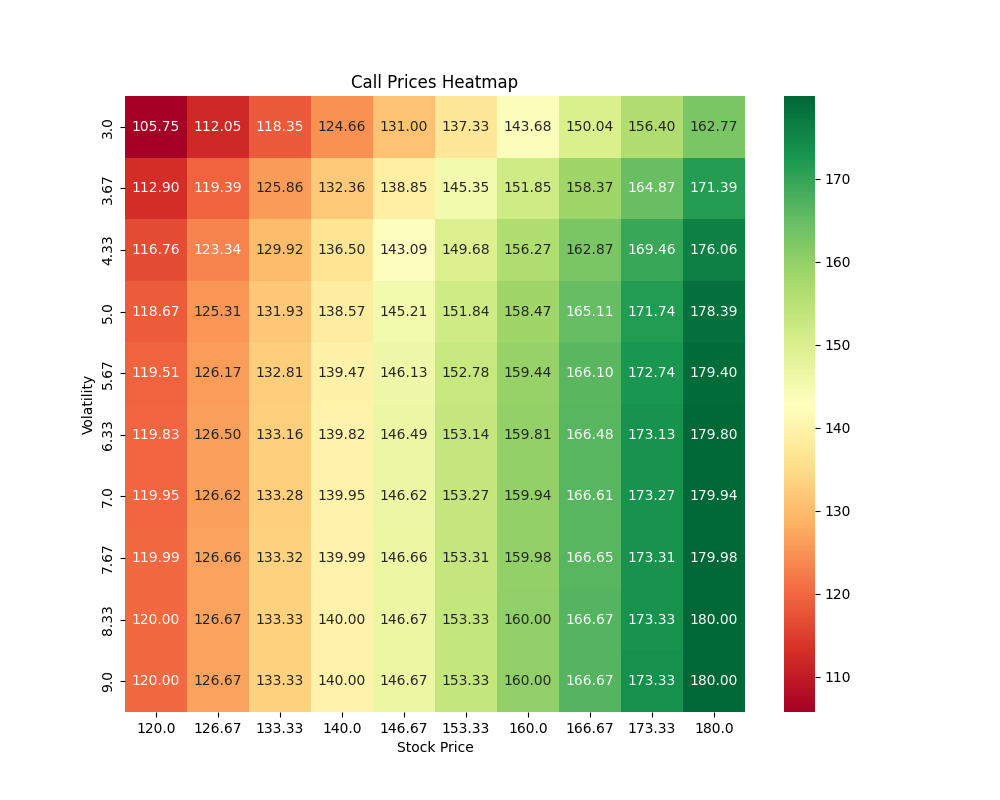
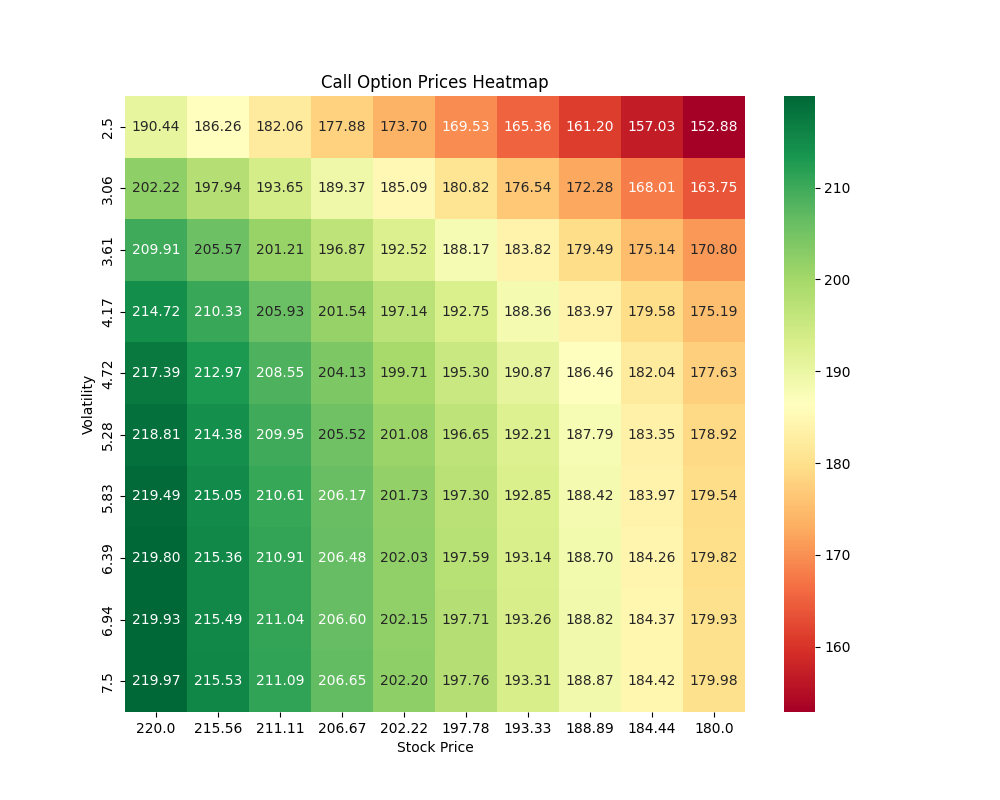
Fixed all bugs, some formatting changes left

diff --git a/templates/index.html b/templates/index.html
@@ -47,17 +47,17 @@
                     <div class="SPParameters">
                         <div class="MinSpCont">
                             <label for="minStockPrice">Minimum Stock Price</label>
-                            <input type="number" id="minStockPrice" name="mappedMinStockPrice" value="{{ minStockPrice }}" step="0.01">
+                            <input type="number" id="minStockPrice" name="mappedMinStockPrice" value="{{ mappedMinStockPrice }}" step="0.01">
                         </div>
                         <div class="MaxSpCont">
                             <label for="maxStockPrice">Maximum Stock Price</label>
-                            <input type="number" id="maxStockPrice" name="mappedMaxStockPrice" value="{{ maxStockPrice }}" step="0.01">
+                            <input type="number" id="maxStockPrice" name="mappedMaxStockPrice" value="{{ mappedMaxStockPrice }}" step="0.01">
                         </div>
                     </div>
                     <div class="VolatilityParameters">
                         <div class="minVolCont">
                             <label for="minVolatility">Minimum Volatility</label>
-                            <input id="minVolatility" name="minVolatility" type="range" min="0.01" max="{{ minVolatility }}" step="0.01" value="{{ mappedMinVolatility }}">
+                            <input id="minVolatility" name="mappedMinVolatility" type="range" min="0.01" max="{{ minVolatility }}" step="0.01" value="{{ mappedMinVolatility }}">
                             <p>
                                 <span>0.01</span>
                                 <span class="myNum1">{{ mappedMinVolatility }}</span>
@@ -66,7 +66,7 @@
                         </div>
                         <div class="maxVolCont">
                             <label for="maxVolatility">Maximum Volatility</label>
-                            <input id="maxVolatility" name="maxVolatility" type="range" min="0.01" max="{{ maxVolatility }}" step="0.01" value="{{ mappedMaxVolatility }}">
+                            <input id="maxVolatility" name="mappedMaxVolatility" type="range" min="0.01" max="{{ maxVolatility }}" step="0.01" value="{{ mappedMaxVolatility }}">
                             <p>
                                 <span>{{ minVolatility }}</span>
                                 <span class="myNum2">{{ mappedMaxVolatility }}</span>

diff --git a/static/myscript.js b/static/myscript.js
@@ -9,7 +9,7 @@ document.addEventListener("DOMContentLoaded",()=>{
 
 
 ///INPUT TYPE PARAMETER///
-const calcOptions = document.getElementById("formSubmission");
+const calcOptions = document.getElementById("calculateForm");
 const inputs1 = calcOptions.querySelectorAll('input[type="number"]');
 
 inputs1.forEach(element => {

diff --git a/app.py b/app.py
@@ -59,6 +59,18 @@ def generateHeatMap(prices, stockrange, volrange, title, colorpal, filename):
 
 @app.route("/", methods=["GET"])
 def index():
+
+    S = 150.00
+    X = 100.00
+    r = 0.05
+    T = 1.00
+    sigma = 0.20
+    minSP = 120
+    maxSP = 180
+    minVol = 0.1
+    maxVol = 0.3
+    colorPalette = "RdYlGn"
+    
     call_price = call(S, X, T, r, sigma)
     put_price = put(S, X, T, r, sigma)
 
@@ -75,9 +87,9 @@ def index():
     mappedMaxVol = maxVol
 
     for i, vol in enumerate(volRange):
-        for j, stock in enumerate(stockRange):
-            call_prices[i, j] = call(stock, X, T, r, vol)
-            put_prices[i, j] = put(stock, X, T, r, vol)
+        for j, stockPrice in enumerate(stockRange):
+            call_prices[i, j] = call(stockPrice, X, T, r, vol)
+            put_prices[i, j] = put(stockPrice, X, T, r, vol)
 
     generateHeatMap(call_prices, stockRange, volRange, "Call Prices Heatmap",colorPalette, "call_prices_heatmap.png")
     generateHeatMap(put_prices, stockRange, volRange, "Put Prices Heatmap",colorPalette,"put_prices_heatmap.png")
@@ -106,11 +118,54 @@ def index():
 
 @app.route("/calc", methods=["POST"])
 def calc():
-    S = getFormValue(request.form, "stockPrice", 150.00)
-    X = getFormValue(request.form, "strikePrice", 100.00)
-    r = getFormValue(request.form, "RFIR", 0.05)
-    T = getFormValue(request.form, "expiration", 1.00)
-    sigma = getFormValue(request.form, "volatility", 0.20)
+    global S, X, r, T, sigma, call_price, put_price, maxSP, minSP, maxVol, minVol
+
+    S = getFormValue(request.form, "stockPrice", S)
+    X = getFormValue(request.form, "strikePrice", X)
+    r = getFormValue(request.form, "RFIR", r)
+    T = getFormValue(request.form, "expiration", T)
+    sigma = getFormValue(request.form, "volatility", sigma)
+
+    call_price = call(S, X, T, r, sigma)
+    put_price = put(S, X, T, r, sigma)
+
+    minSP = S * 0.8
+    maxSP =  S * 1.2
+
+    minVol = sigma * 0.5
+    maxVol =  sigma * 1.5
+
+    mappedMinSP = minSP
+    mappedMaxSP = maxSP
+
+    mappedMinVol = minVol
+    mappedMaxVol = maxVol
+
+
+    return render_template(
+        "index.html",
+        call_heatmap='call_prices_heatmap.png',
+        put_heatmap='put_prices_heatmap.png',
+        call_price=f"${round(call_price, 2):.2f}",
+        put_price=f"${round(put_price, 2):.2f}",
+        stockPrice=f"{S:.2f}",
+        strikePrice=f"{X:.2f}",
+        RFIR=f"{r:.2f}",
+        expiration=f"{T:.2f}",
+        volatility=f"{sigma:.2f}",
+        minStockPrice=f"{minSP:.2f}",
+        maxStockPrice=f"{maxSP:.2f}",
+        minVolatility=f"{minVol:.2f}",
+        maxVolatility=f"{maxVol:.2f}",
+        mappedMinVolatility=f"{mappedMinVol:.2f}",
+        mappedMaxVolatility=f"{mappedMaxVol:.2f}",
+        mappedMinStockPrice=f"{mappedMinSP:.2f}",
+        mappedMaxStockPrice=f"{mappedMaxSP:.2f}"
+    )
+
+@app.route("/generate", methods=["POST"])
+def generate():
+    global minSP, maxSP, minVol, maxVol, colorPalette
 
     call_price = call(S, X, T, r, sigma)
     put_price = put(S, X, T, r, sigma)
@@ -124,8 +179,10 @@ def calc():
     mappedMinSP = getFormValue(request.form, "mappedMinStockPrice", minSP)
     mappedMaxSP = getFormValue(request.form, "mappedMaxStockPrice", maxSP)
 
-    mappedMinVol = getFormValue(request.form, "minVolatility", minVol)
-    mappedMaxVol = getFormValue(request.form, "maxVolatility", maxVol)
+    mappedMinVol = getFormValue(request.form, "mappedMinVolatility", minVol)
+    mappedMaxVol = getFormValue(request.form, "mappedMaxVolatility", maxVol)
+
+    colorPalette = request.form.get("heatmapColors", colorPalette)
 
     stockRange = np.round(np.linspace(mappedMinSP, mappedMaxSP, 10), 2)
     volRange = np.round(np.linspace(mappedMinVol, mappedMaxVol, 10), 2)
@@ -134,14 +191,15 @@ def calc():
     put_prices = np.zeros((len(stockRange), len(volRange)))
 
     for i, vol in enumerate(volRange):
-        for j, stock in enumerate(stockRange):
-            call_prices[i, j] = call(stock, X, T, r, vol)
-            put_prices[i, j] = put(stock, X, T, r, vol)
-    
-    colorPalette = request.form.get("heatmapColors", "RdYlGn")
+        for j, stockPrice in enumerate(stockRange):
+            call_prices[i, j] = call(stockPrice, X, T, r, vol)
+            put_prices[i, j] = put(stockPrice, X, T, r, vol)
 
-    generateHeatMap(call_prices, stockRange, volRange, "Call Prices Heatmap", colorPalette, "call_prices_heatmap.png")
-    generateHeatMap(put_prices, stockRange, volRange, "Put Prices Heatmap", colorPalette, "put_prices_heatmap.png")
+    call_heatmap_filename = 'call_prices_heatmap.png'
+    put_heatmap_filename = 'put_prices_heatmap.png'
+
+    generateHeatMap(call_prices, stockRange, volRange, "Call Option Prices Heatmap", colorPalette, call_heatmap_filename)
+    generateHeatMap(put_prices, stockRange, volRange, "Put Option Prices Heatmap", colorPalette, put_heatmap_filename)
 
     return render_template(
         "index.html",
